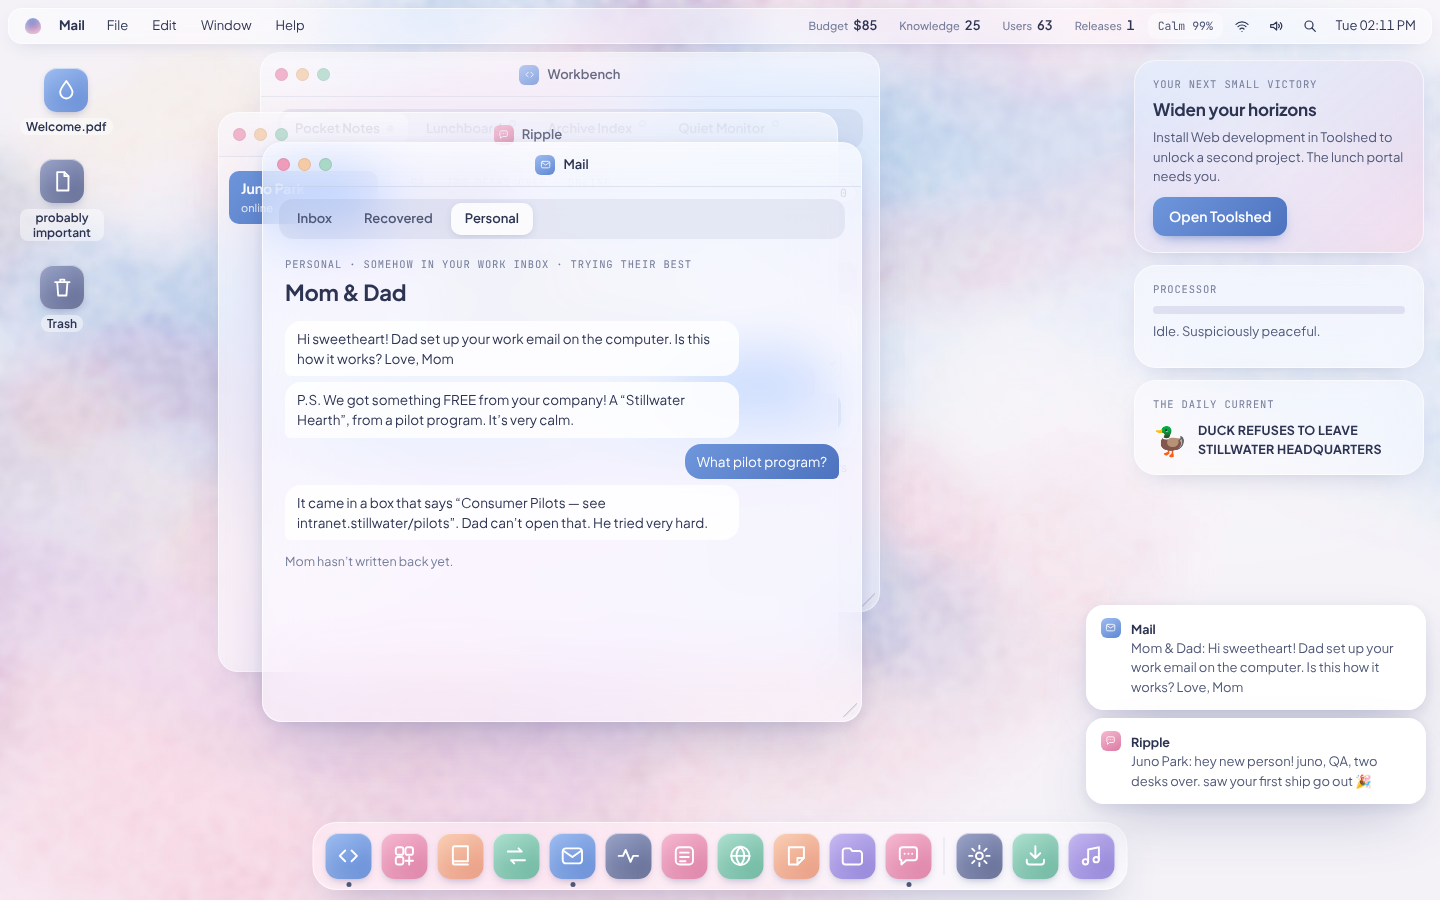
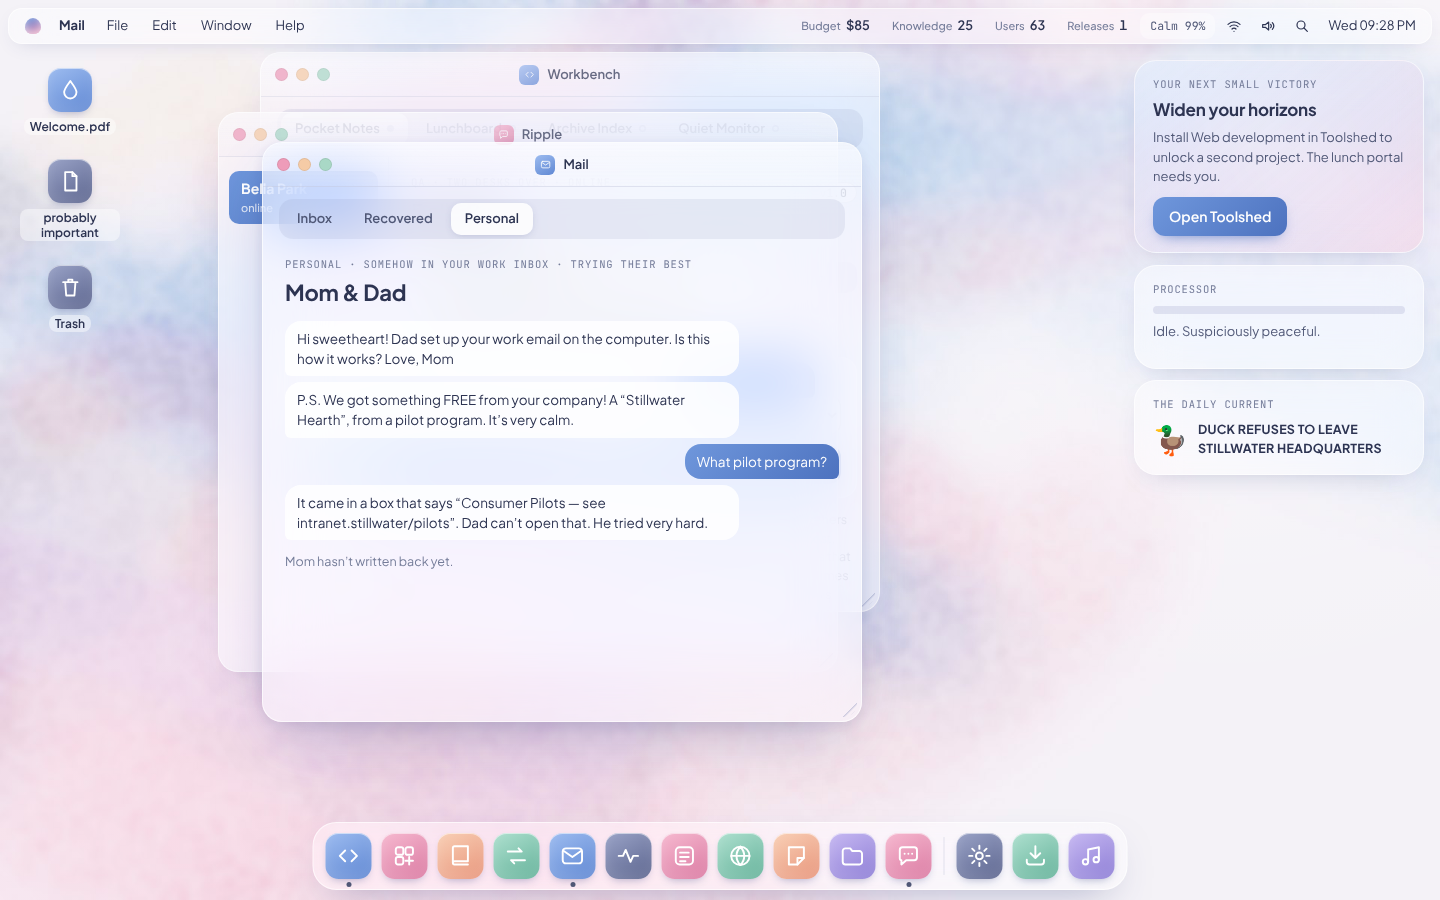
Refresh the stale previews and design notes, advance to 1.4.1
The desktop, mail and mobile screenshots still showed Juno from before the
rename to Bella; they are regenerated by tests/browser.py. The design notes now
read as cumulative status with the pre-1.3.0 analysis marked historical.
Documentation only; the repo bumps the version on every main change.

Claude-Session: https://claude.ai/code/session_01ECv6YqiLRqGvwA2Re8ePkP

diff --git a/version.js b/version.js
@@ -1,4 +1,4 @@
 /* The game's version and where it is published. package.json must match VERSION; the release
    workflow refuses to publish a tag that disagrees with either. */
-export const VERSION = "1.4.0";
+export const VERSION = "1.4.1";
 export const REPO = "jxburros/Advanced-Settings";

diff --git a/docs/INCREMENTAL-DESIGN.md b/docs/INCREMENTAL-DESIGN.md
@@ -1,6 +1,6 @@
 # Deepening the incremental layer
 
-Design notes for making Advanced Settings' idle/incremental half as rich as its puzzle half. Ideas are marked **(yours)** when they came from the designer and **(proposed)** when they came out of the code review that produced this page. Version 1.3.0 implements part of it; see **Status** below. "Where things stand" describes the game before that.
+Design notes for making Advanced Settings' idle/incremental half as rich as its puzzle half. Ideas are marked **(yours)** when they came from the designer and **(proposed)** when they came out of the code review that produced this page. Versions 1.3.0 and 1.4.0 implement most of it; the **Status** sections below are cumulative, newest first. "Where things stood" describes the game before 1.3.0 and is kept for history.
 
 ## Status (1.4.0)
 
@@ -15,7 +15,7 @@ Design notes for making Advanced Settings' idle/incremental half as rich as its 
 
 Not done: a use for the budget that piles up after the Toolshed is bought out (about $35,000 by 30 minutes). Section 3.4's handover is the natural place for it.
 
-## Status (1.3.0)
+## Status by section (as of 1.3.0; 1.4.0 retuned the numbers above)
 
 | Section | State |
 | --- | --- |
@@ -30,11 +30,11 @@ Not done: a use for the budget that piles up after the Toolshed is bought out (a
 | 4 Secrets | 22 added, each with a hint and a test: Boss key and Nothing to report are tied to the new systems, and 20 more are just for fun, on surfaces like Esc, search, the clock, Wi-Fi, wallpapers, window sizes and Murmur. A test now checks that every secret is in `docs/SECRETS.md` and that the README's counts match. Six optional story moments are also new. |
 | 5 Fast moments | The boss key only. It needs the player present on a personal page, is telegraphed by a toast and sound, dents the Calm Index if missed, and is measured in `elapsed`. Relaxed timing (Settings › Appearance) doubles its window and the cake's. |
 
-None of this has been play-tested yet. Not yet built from the doc: more fast moments (Panel B mid-build, reply-all recall, deploy alert). The numbers (`INCOME`, `STALE`, the policy multipliers, the boss timings) live at the top of `game.js`.
+The engine tests, the browser smoke test (`tests/browser.py`) and the pacing test exercise all of it, but no person has played it start to finish yet, so the pacing targets are unconfirmed by real players. Not yet built from the doc: more fast moments (Panel B mid-build, reply-all recall, deploy alert). The numbers (`INCOME`, `STALE`, the policy multipliers, the boss timings) live at the top of `game.js`.
 
-## Where things stand
+## Where things stood before 1.3.0
 
-From reading `game.js`:
+Historical: this is the analysis that led to 1.3.0, so its line references and complaints describe the old code and most are fixed now (see Status above). From reading `game.js`:
 
 - The loop is `start` → write → `test` → `debug` → task → `release`. Money, knowledge and users all grow roughly linearly.
 - **`users` is never read.** `release` adds `round(money × 1.4)` to `s.users` (`game.js:806`) and nothing uses it.
@@ -131,7 +131,7 @@ Candidate ideas:
 - Murmur: a track title or playback position that matches something in Mail.
 - Economy-linked: ship a project with zero users; choose the calm tier every time; leave a Ripple conversation unanswered past a threshold.
 
-Housekeeping: secrets are listed in `SECRETS`, `HINTS`, `docs/SECRETS.md` and the README's count (46). A data-driven registration step would prevent drift, and each new secret should ship with its hint and a test, as the existing ones do.
+Housekeeping: secrets are listed in `SECRETS`, `HINTS`, `docs/SECRETS.md` and the README's count (68 as of 1.4.0, up from 46 when this was written). A test now checks that they agree, and each new secret should ship with its hint and a test, as the existing ones do.
 
 ## 5. Short, fast, high-pressure moments (yours)
 

diff --git a/README.md b/README.md
@@ -77,7 +77,7 @@ python tests/browser.py
 
 The concept deliberately leaves platforms, timing, economy, characters, and endings open. This implementation uses dependency-free browser modules, short tasks (8–22 seconds before modifiers, growing 60% per version written), permanent knowledge requirements, and spendable budget. Mara Chen and Stillwater Systems are original names supplied for the playable story. All paths remain available regardless of career direction; the promotion choice is narrative, not a separate skill tree. There is a completion message after all four stories, followed by unlimited free play. Losing ends the workstation (the browsing loss only after one Calm Improvement Plan); a new one starts from scratch, but the Secret Tracker remembers. There is no backend.
 
-Game rules live in `game.js`, release tasks in `tasks.js`, conversation scripts and incidents in `stories.js`, sounds and the music player in `sound.js`, and the desktop, windows, story moments and browser storage in `app.js`. Window layout and appearance preferences are stored separately from the game save, so a save file never depends on screen size. The Secret Tracker has its own storage key, so starting a new workstation never clears it. A return counts once per browser session, so reloading the page does not count. See [desktop preview](docs/desktop.png) and [mobile preview](docs/mobile.png).
+Game rules live in `game.js`, release tasks in `tasks.js`, conversation scripts and incidents in `stories.js`, sounds and the music player in `sound.js`, and the desktop, windows, story moments and browser storage in `app.js`. Window layout and appearance preferences are stored separately from the game save, so a save file never depends on screen size. The Secret Tracker has its own storage key, so starting a new workstation never clears it. A return counts once per browser session, so reloading the page does not count. See the [desktop](docs/desktop.png), [mail and Ripple](docs/ripple.png) and [mobile](docs/mobile.png) previews. `python tests/browser.py` regenerates them.
 
 ## Unified release procedure
 

diff --git a/CHANGELOG.md b/CHANGELOG.md
@@ -2,6 +2,10 @@
 
 Each release's section becomes its GitHub release notes, which Software Update shows in the game. Keep the newest version first, under a `## <version>` heading.
 
+## 1.4.1
+
+- Refreshed the desktop, mail and mobile previews, which still showed Juno from before the rename to Bella. Documentation only, so the game itself is unchanged.
+
 ## 1.4.0
 
 - **Progress takes more than shipping.** Every promotion after the first now waits on something only you can do, and People & Serenity only hints at what: a plugin nobody installed, the account behind it, and what the previous user left offline. Mail and the goal widget say when a growth conversation is on hold, and the Help Desk takes tickets about it.

diff --git a/.release/notes/advanced-settings/1.4.1.md b/.release/notes/advanced-settings/1.4.1.md
@@ -1,0 +1,5 @@
+# Advanced Settings 1.4.1
+
+## Changes
+
+- Refreshed the desktop, mail and mobile previews, which still showed Juno from before the rename to Bella. Updated the design notes so their status sections read as cumulative and the pre-1.3.0 analysis is marked historical. Documentation only, so the game itself is unchanged.
